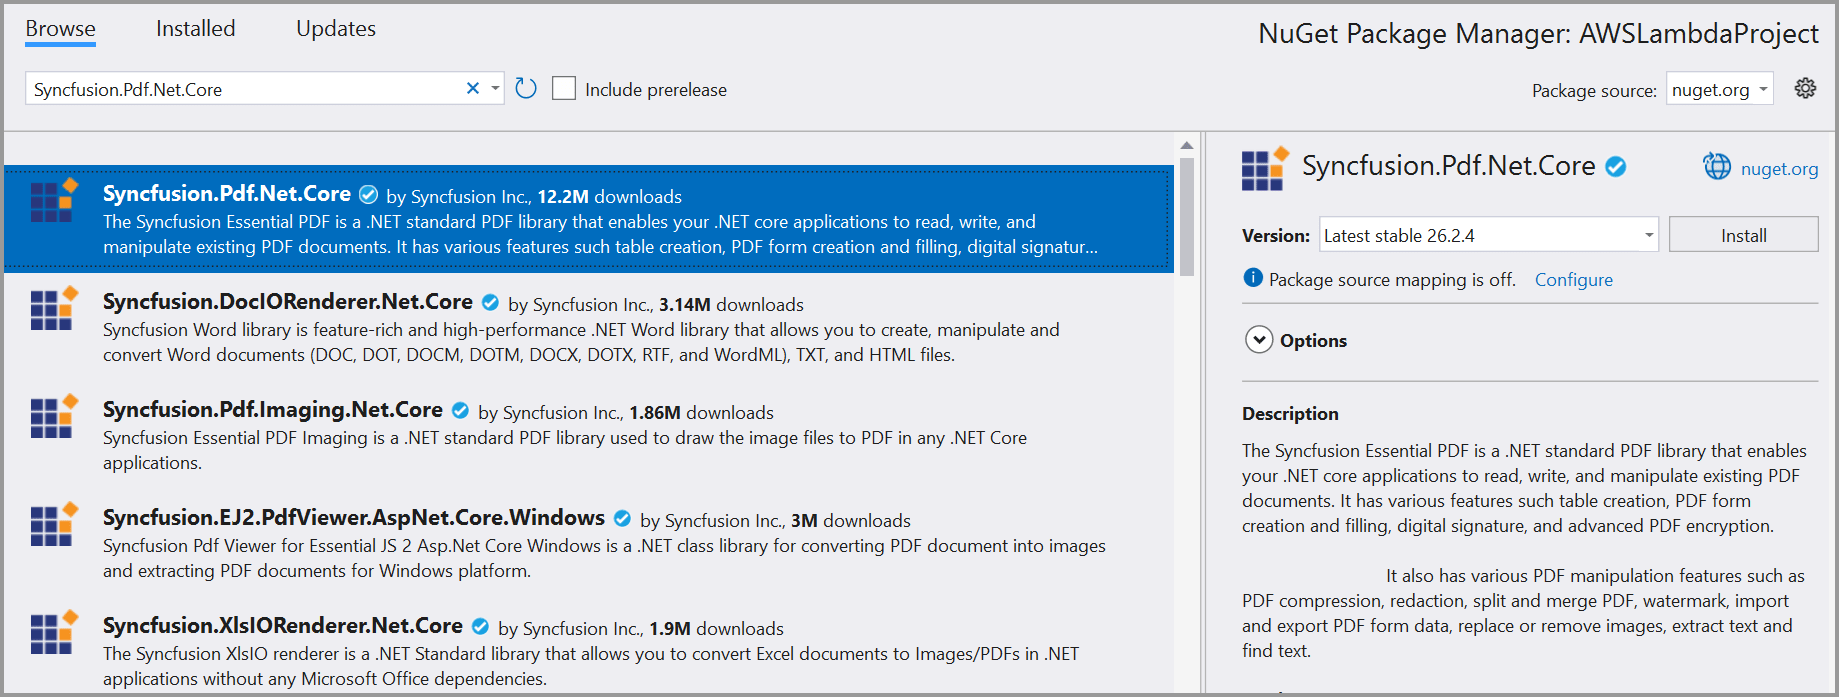
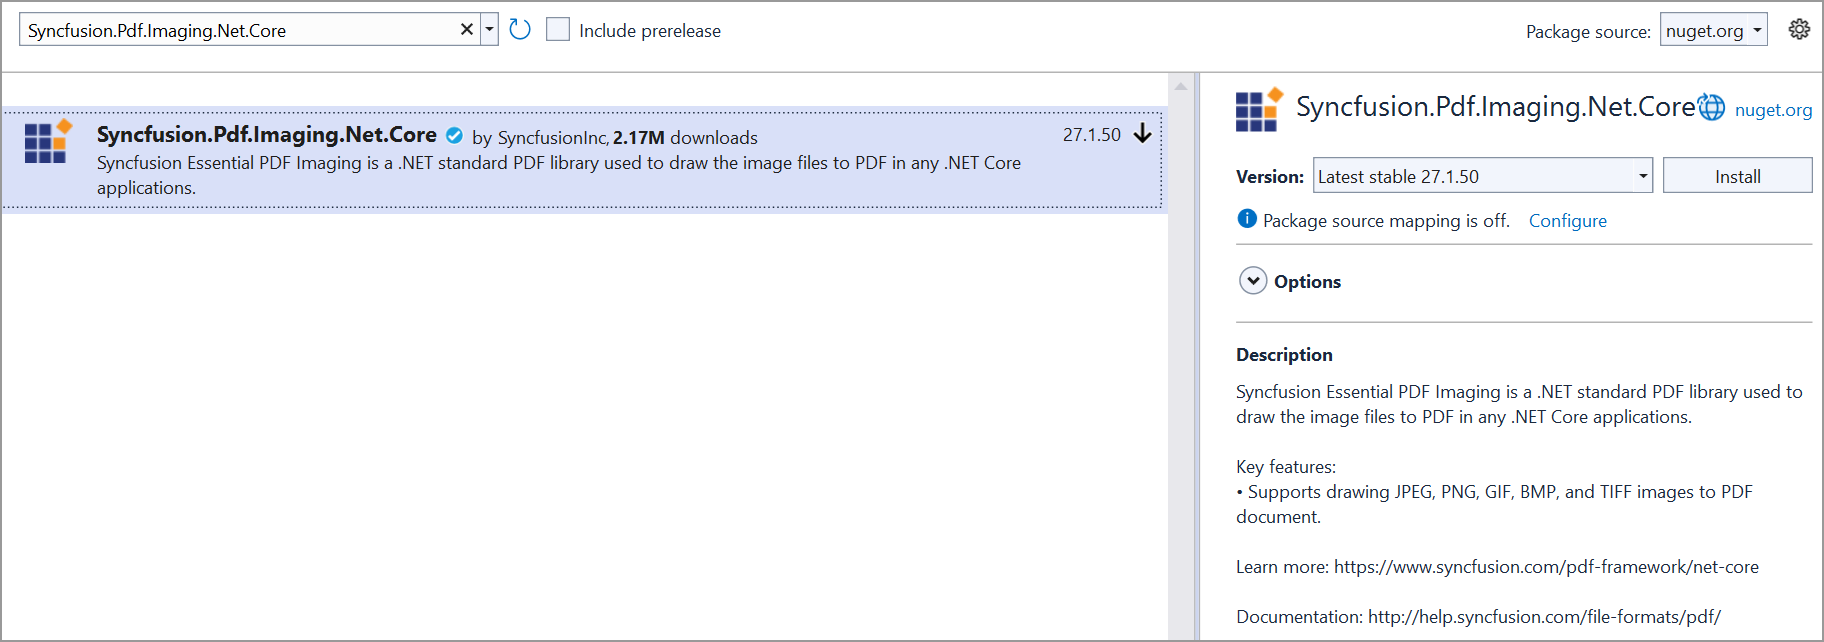
897376_UG: Update the AWS nugget package.

diff --git a/Document-Processing/PDF/PDF-Library/NET/Create-PDF-file-in-AWS-Lambda.md b/Document-Processing/PDF/PDF-Library/NET/Create-PDF-file-in-AWS-Lambda.md
@@ -19,7 +19,7 @@ Step 1: Create a new **AWS Lambda project** as follows.
 Step 2: Select Blueprint as Empty Function and click **Finish**.
 ![Select Blueprint as Empty Function](GettingStarted_images/Blueprint_AWS.png)
 
-Step 3: Install the [Syncfusion.Pdf.Net.Core](https://www.nuget.org/packages/Syncfusion.Pdf.Net.Core/) NuGet package as a reference to your project from [NuGet.org](https://www.nuget.org/).
+Step 3: Install the [Syncfusion.Pdf.Imaging.Net.Core](https://www.nuget.org/packages?q=Syncfusion.Pdf.Imaging.Net.Core) NuGet package as a reference to your project from [NuGet.org](https://www.nuget.org/).
 ![Install NuGet package](GettingStarted_images/NuGetPackageAWSLambda.png)
 
 N> Starting with v16.2.0.x, if you reference Syncfusion assemblies from the trial setup or the NuGet feed, add the "Syncfusion.Licensing" assembly reference and include a license key in your projects. Please refer to this [link](https://help.syncfusion.com/common/essential-studio/licensing/overview) to register the Syncfusion license key in your application to use our components.
